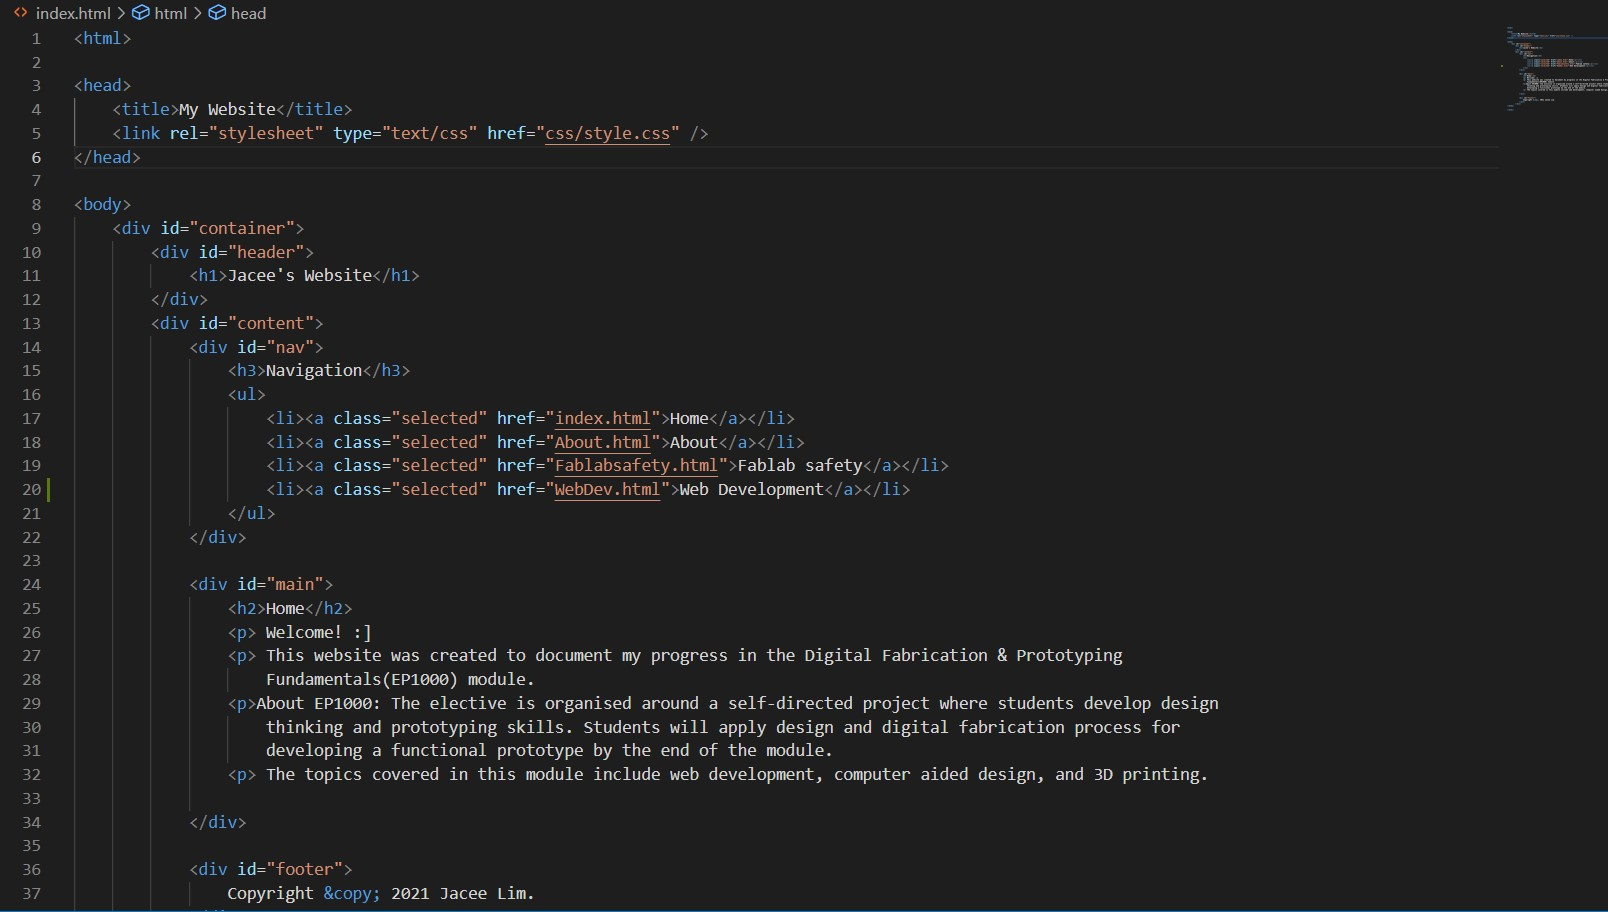
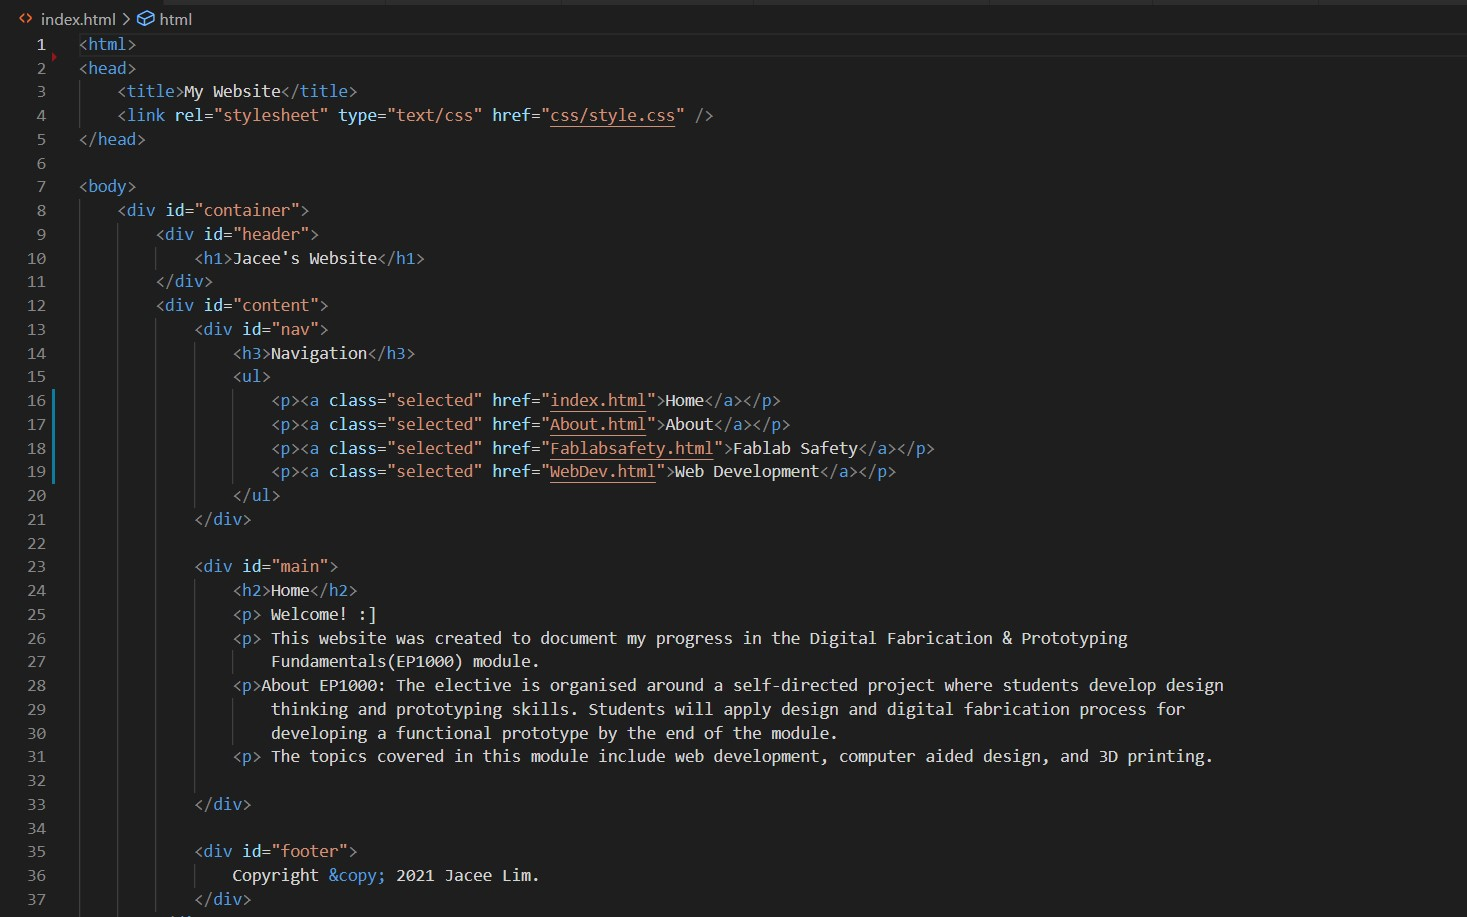
finished webdev

Changed region(s): [[0.0, 0.0, 1.0, 1.0], [0.9202, 0.0307, 1.0, 0.1228]]

diff --git a/WebDev.html b/WebDev.html
@@ -14,27 +14,58 @@
             <div id="nav">
                 <h3>Navigation</h3>
                 <ul>
-                    <li><a class="selected" href="index.html">Home</a></li>
-                    <li><a class="selected" href="About.html">About</a></li>
-                    <li><a class="selected" href="Fablabsafety.html">Fablab Safety</a></li>
-                    <li><a class="selected" href="WebDev.html">Web Development</a></li>
+                    <p><a class="selected" href="index.html">Home</a></p>
+                    <p><a class="selected" href="About.html">About</a></p>
+                    <p><a class="selected" href="Fablabsafety.html">Fablab Safety</a></p>
+                    <p><a class="selected" href="WebDev.html">Web Development and Version Control</a></p>
                 </ul>
             </div>
 
             <div id="main">
                 <h2>Web Development</h2>
                 <p>This website was created using HTML and CSS.</p>
-                <p>HTML is the standard markup language for creating Web pages. 
+                <p>HTML is the standard markup language for creating Web pages.
                     It describes the structure of a Web page, and consists of a series of elements
                     which tell the browser how to display the content.</p>
-                    <p>CSS is the language used to style a HTML document by describing how HTML elements should be displayed.</p>
-                    <p>I used Visual Studio Code to code this website.</p>
-                    <p>I also made use of the website, <a href="https://www.w3schools.com/"> W3Schools</a> to learn the basics of HTML and CSS.</p>
+                <p>CSS is the language used to style a HTML document by describing how HTML elements should be
+                    displayed, and it is used to add colours to my website.</p>
 
-                    <img src="vsc.jpg" alt="Symbols" width="900" height="400">
-                    <p>Writing the code for my home page</p>
-                    <img src="homeSS.jpg" alt="Symbols" width="900" height="300">
-                    <p>The appearance of the home page</p>
+                <p>I also made use of the website, <a href="https://www.w3schools.com/"> W3Schools</a>, and <a
+                        href="https://youtu.be/0afZj1G0BIE">this video</a> to learn the basics of HTML and CSS.</p>
+
+                <img src="vsc.jpg" alt="Symbols" width="900" height="500">
+                <p>Writing the code for my home page on <b>Visual Studio Code</b></p>
+                <img src="homeSS.jpg" alt="Symbols" width="900" height="300">
+                <p>The appearance of the home page</p>
+
+                <h3 style="font-size:20px;">The tags I commonly used include: </h3>
+
+                <p></p>
+
+                <b> &lt;h1&gt; to &lt;h6&gt;</b>:
+                  text header
+
+             <p> <b>&lt;p&gt;</b>:
+                 <td>new paragraph</td>
+            </p>
+
+            <b> &lt;ul&gt; and &lt;ol&gt;</b>:
+            creates a bulleted and numbered list respectively
+
+          <p> <b>&lt;img src="(file name).jpg"&gt;</b>: places an image </p>
+
+          <h2>Project Development</h2>
+          <p>After finishing up the website, I used GitHub to host it and keep track of any changes made.</p>
+
+          <img src="1st.jpg" alt="Symbols" width="600" height="300">
+          <p>A repository, called ep-100 is made so i can manage my project files </p>
+
+          <img src="WebDev.html - ep-100 - Visual Studio Code 2022-01-06 18-14-29_Moment (2).jpg" alt="Symbols" width="200" height="300">
+         <p> after making the appropriate changes to my <b>local</b> repository, i apply the changes to my <b>GitHub</b> repository</p>
+              
+          
+
+
             </div>
 
             <div id="footer">

diff --git a/index.html b/index.html
@@ -1,5 +1,4 @@
 <html>
-
 <head>
     <title>My Website</title>
     <link rel="stylesheet" type="text/css" href="css/style.css" />
@@ -14,10 +13,10 @@
             <div id="nav">
                 <h3>Navigation</h3>
                 <ul>
-                    <li><a class="selected" href="index.html">Home</a></li>
-                    <li><a class="selected" href="About.html">About</a></li>
-                    <li><a class="selected" href="Fablabsafety.html">Fablab Safety</a></li>
-                    <li><a class="selected" href="WebDev.html">Web Development</a></li>
+                    <p><a class="selected" href="index.html">Home</a></p>
+                    <p><a class="selected" href="About.html">About</a></p>
+                    <p><a class="selected" href="Fablabsafety.html">Fablab Safety</a></p>
+                    <p><a class="selected" href="WebDev.html">Web Development and Version Control</a></p>
                 </ul>
             </div>
 

diff --git a/About.html b/About.html
@@ -14,10 +14,10 @@
             <div id="nav">
                 <h3>Navigation</h3>
                 <ul>
-                    <li><a class="selected" href="index.html">Home</a></li>
-                    <li><a class="selected" href="About.html">About</a></li>
-                    <li><a class="selected" href="Fablabsafety.html">Fablab Safety</a></li>
-                    <li><a class="selected" href="WebDev.html">Web Development</a></li>
+                    <p><a class="selected" href="index.html">Home</a></p>
+                    <p><a class="selected" href="About.html">About</a></p>
+                    <p><a class="selected" href="Fablabsafety.html">Fablab Safety</a></p>
+                    <p><a class="selected" href="WebDev.html">Web Development and Version Control</a></p>
                 </ul>
             </div>
 

diff --git a/Fablabsafety.html b/Fablabsafety.html
@@ -14,10 +14,10 @@
             <div id="nav">
                 <h3>Navigation</h3>
                 <ul>
-                    <li><a class="selected" href="index.html">Home</a></li>
-                    <li><a class="selected" href="About.html">About</a></li>
-                    <li><a class="selected" href="Fablabsafety.html">Fablab Safety</a></li>
-                    <li><a class="selected" href="WebDev.html">Web Development</a></li>
+                    <p><a class="selected" href="index.html">Home</a></p>
+                    <p><a class="selected" href="About.html">About</a></p>
+                    <p><a class="selected" href="Fablabsafety.html">Fablab Safety</a></p>
+                    <p><a class="selected" href="WebDev.html">Web Development and Version Control</a></p>
                 </ul>
             </div>
 
